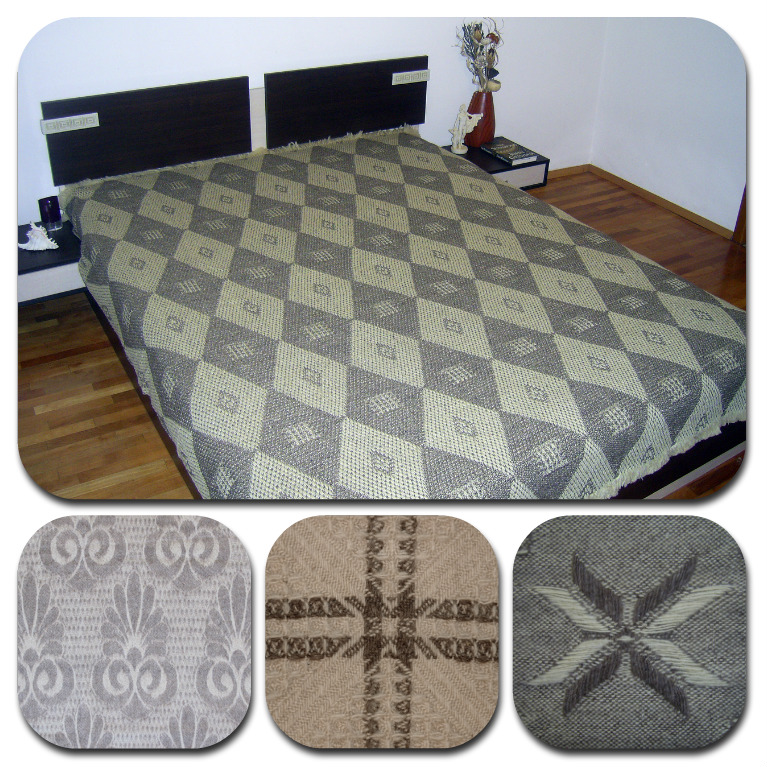
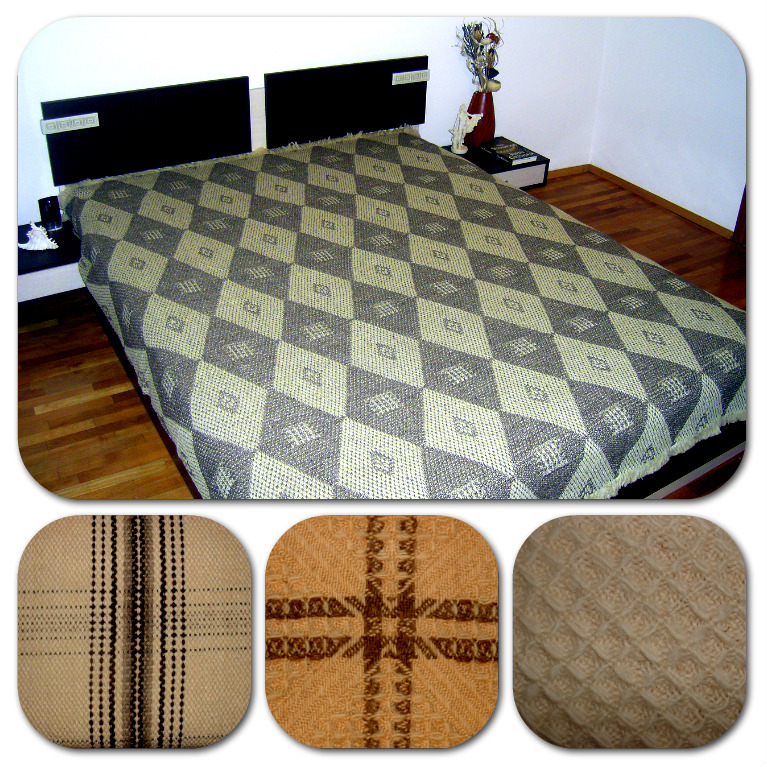
commit

diff --git a/products.html b/products.html
@@ -48,14 +48,14 @@
                 <div >
                     <div class="col-sm-6 col-md-6 col-lg-6 grid-item senza_nocciolo">
                         <div style="opacity: 100;" class="inner text-center toflip animated fadeOutDown">
-                            <a href="http://www.montere.it/?p=4411&amp;lang=it"> <img src="img/category/wool.jpg" class="img-responsive wp-post-image" alt="PA0250DA07" height="720" width="720">
+                            <a href="http://www.montere.it/?p=4411&amp;lang=it"> <img src="img/category/wool.jpg" class="img-responsive wp-post-image" alt="PA0250DA07" height="620" width="620">
                                 <p>Вълнени одеяла- тип родопски</p>
                                 <h5>100 % вълна</h5> </a>
                         </div>
                     </div>
                     <div class="col-sm-6 col-md-6 col-lg-6 grid-item senza_nocciolo">
                         <div style="opacity: 100;" class="inner text-center toflip animated fadeOutDown">
-                            <a href="http://www.montere.it/?p=4353&amp;lang=it"> <img src="img/category/wool2.jpg" class="img-responsive wp-post-image" alt="PA0500DB07" height="720" width="720">
+                            <a href="http://www.montere.it/?p=4353&amp;lang=it"> <img src="img/category/wool2.jpg" class="img-responsive wp-post-image" alt="PA0500DB07" height="620" width="620">
                                 <p>Вълнени кувертюри за легна</p>
                                 <h5>100 % вълна </h5> </a>
                         </div>
@@ -63,7 +63,7 @@
                     <div class="clearfix hidden-xs hidden-sm visible-md visible-lg"></div>
                     <div class="col-sm-6 col-md-6 col-lg-6 grid-item con_nocciolo">
                         <div style="opacity: 100;" class="inner text-center toflip animated fadeOutDown">
-                            <a href="http://www.montere.it/?p=4319&amp;lang=it"> <img src="http://www.montere.it/wp-content/uploads/2014/01/PA0500GB07-360x360.jpg" class="img-responsive wp-post-image" alt="PA0500GB07" height="360" width="360">
+                            <a href="http://www.montere.it/?p=4319&amp;lang=it"> <img src="img/category/woolleki.jpg" class="img-responsive wp-post-image" alt="PA0500GB07" height="620" width="620">
                                 <p>Олекотени одеяла</p>
                                 <h5>Вълнени и смес вълна/полиестер</h5> </a>
                         </div>
@@ -72,7 +72,7 @@
 
                     <div class="col-sm-6 col-md-6 col-lg-6 grid-item con_nocciolo">
                         <div style="opacity: 100;" class="inner text-center toflip animated fadeOutDown">
-                            <a href="http://www.montere.it/?p=4343&amp;lang=it"> <img src="http://www.montere.it/wp-content/uploads/2014/01/PA0250GA07-360x360.jpg" class="img-responsive wp-post-image" alt="PA0250GA07" height="360" width="360">
+                            <a href="http://www.montere.it/?p=4343&amp;lang=it"> <img src="img/category/pokrivki.jpg" class="img-responsive wp-post-image" alt="PA0250GA07" height="620" width="620">
                                 <p>Битови покривки</p>
                                 <h5>памук - 8 основни цвята</h5> </a>
                         </div>
@@ -80,7 +80,7 @@
                 <div class="clearfix hidden-xs hidden-sm visible-md visible-lg"></div>
                     <div class="col-sm-6 col-md-6 col-lg-6 grid-item con_nocciolo">
                         <div id="waypoint" style="opacity: 100;" class="inner text-center toflip animated fadeOutDown">
-                            <a href="http://www.montere.it/?p=4511&amp;lang=it"> <img src="http://www.montere.it/wp-content/uploads/2014/01/PA1000JB07-360x360.jpg" class="img-responsive wp-post-image" alt="PA1000JB07" height="360" width="360">
+                            <a href="http://www.montere.it/?p=4511&amp;lang=it"> <img src="img/category/prejda.jpg" class="img-responsive wp-post-image" alt="PA1000JB07" height="620" width="620">
                                 <p>Вълнена прежда</p>
                                 <h5>различна дебелина</h5> </a>
                         </div>
